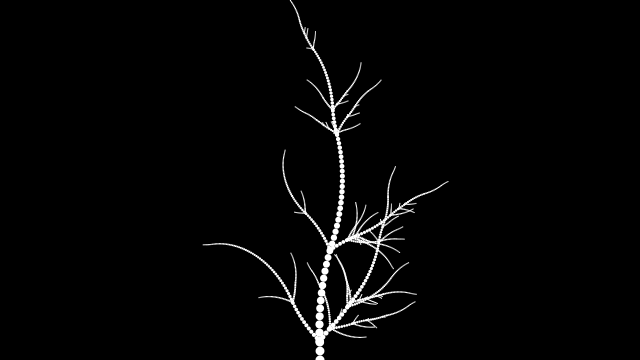
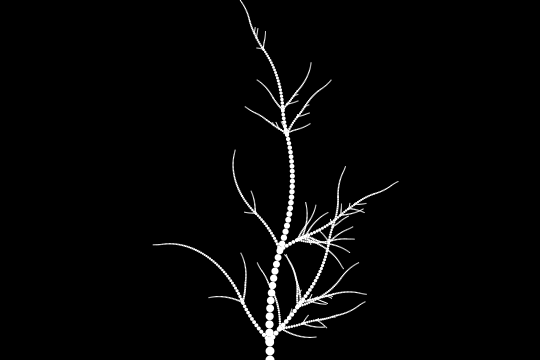
example: resize canvas, update screenshot

Changed region(s): [[0.2963, 0.1833, 0.7407, 1.0], [0.4444, 0.0, 0.5037, 0.1833], [0.4444, 0.275, 0.4741, 0.3056]]

diff --git a/example/index.html b/example/index.html
@@ -11,8 +11,8 @@
 
   <body>
     <figure>
-      <canvas height="360" width="640">
-        <img src="screenshot.png" height="360" width="640" alt="screenshot.png" />
+      <canvas height="360" width="540">
+        <img src="screenshot.png" height="360" width="540" alt="screenshot.png" />
       </canvas>
 
       <figcaption>

diff --git a/example/index.css b/example/index.css
@@ -29,7 +29,7 @@ p {
 
 figure {
   left: 50%;
-  margin: -180px 0 0 -320px;
+  margin: -180px 0 0 -270px;
   position: absolute;
   text-align: center;
   top: 50%;
